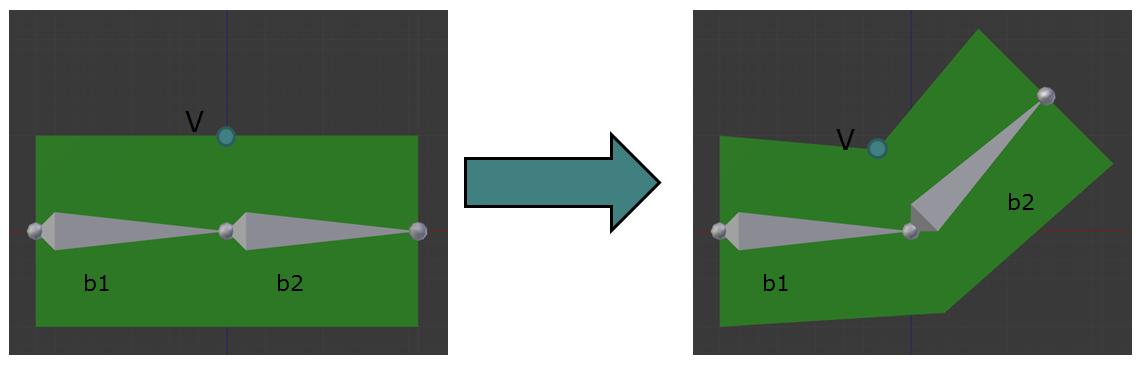
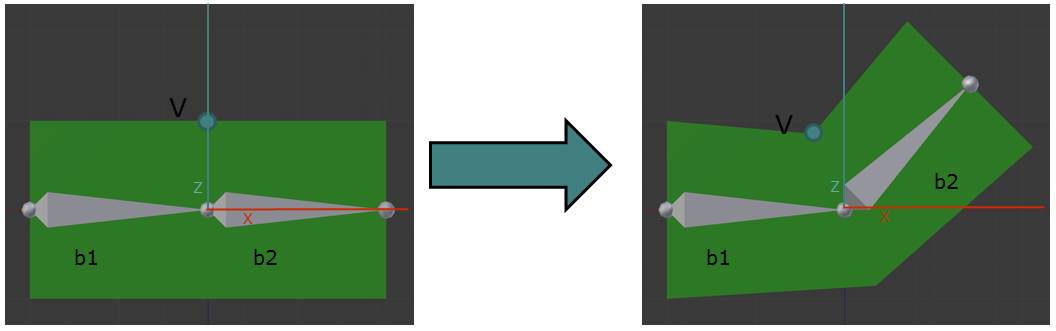
BG/SMA: Adding a result to the example, and making the coordinate system more obvious.

diff --git a/sections/background.tex b/sections/background.tex
@@ -84,7 +84,8 @@ Using equation~\ref{eq:skinning_p}, a skinned position can be determined for the
  w_{b2} = 0.5\nonumber\\\nonumber\\
  V^\prime = \sum_b{\left(w_bT_bV\right)}\nonumber\\
  V^\prime = w_{b1}T_{b1}V + w_{b2}T_{b2}V\nonumber\\
- V^\prime = 0.5\left(\begin{array}{cccc}1.0&0.0&0.0&0.0\\0.0&1.0&0.0&0.0\\0.0&0.0&1.0&0.0\\0.0&0.0&0.0&1.0\end{array}\right)\left(\begin{array}{c}0.0\\-1.0\\1.0\\1.0\end{array}\right) + 0.5\left(\begin{array}{cccc}0.7071&0.0&-0.7071&0.0\\0.0&1.0&0.0&0.0\\0.7071&0.0&0.7071&0.0\\0.0&0.0&0.0&1.0\end{array}\right)\left(\begin{array}{c}0.0\\-1.0\\1.0\\1.0\end{array}\right)
+ V^\prime = 0.5\left(\begin{array}{cccc}1.0&0.0&0.0&0.0\\0.0&1.0&0.0&0.0\\0.0&0.0&1.0&0.0\\0.0&0.0&0.0&1.0\end{array}\right)\left(\begin{array}{c}0.0\\-1.0\\1.0\\1.0\end{array}\right) + 0.5\left(\begin{array}{cccc}0.7071&0.0&-0.7071&0.0\\0.0&1.0&0.0&0.0\\0.7071&0.0&0.7071&0.0\\0.0&0.0&0.0&1.0\end{array}\right)\left(\begin{array}{c}0.0\\-1.0\\1.0\\1.0\end{array}\right)\nonumber\\
+ V^\prime = \left(\begin{array}{c}-0.35355\\-1.0\\0.85255\\1.0\end{array}\right)\begin{array}{c}(left)\\(forward)\\(up)\\ \\\end{array}
 \end{gather}
 
 
